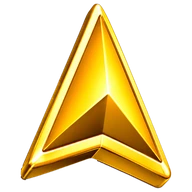
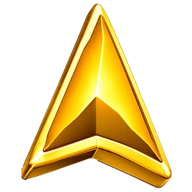
Nav arrow: symmetric wings and centered ridge
Claude-Session: https://claude.ai/code/session_01QqaFd74dCabiCok1GW4n4v

diff --git a/static/sw.js b/static/sw.js
@@ -1,7 +1,7 @@
 // Такси ТАП! — service worker: тиркеме катары орнотуу жана интернет жок болсо жөнөкөй бет.
 // API'лер жана карта кэштелбейт — абал ар дайым жаңы болушу керек.
-const SHELL = "taxitap-v248";
-const PAGES = ["/", "/driver", "/static/area.js?v=20", "/static/voice.js?v=10", "/static/night.js?v=2", "/static/dark.css?v=21", "/static/manifest.json", "/static/manifest-driver.json?v=1", "/static/icon-192.png", "/static/icon-d-192.png?v=1", "/static/logo.png", "/static/nav_arrow.webp?v=2", "/static/n_home.webp?v=24", "/static/n_trips.webp?v=24", "/static/n_go.webp?v=24", "/static/n_go_on.webp?v=1", "/static/n_help.webp?v=24", "/static/n_cab.webp?v=24", "/static/n_earn.webp?v=24", "/static/r_bag.webp?v=24", "/static/r_car.webp?v=24", "/static/cb_tl.webp?v=24", "/static/cb_tr.webp?v=24", "/static/qr.js", "/static/qrshare.js", "/static/c_car.webp?v=24",
+const SHELL = "taxitap-v249";
+const PAGES = ["/", "/driver", "/static/area.js?v=21", "/static/voice.js?v=10", "/static/night.js?v=2", "/static/dark.css?v=21", "/static/manifest.json", "/static/manifest-driver.json?v=1", "/static/icon-192.png", "/static/icon-d-192.png?v=1", "/static/logo.png", "/static/nav_arrow.webp?v=3", "/static/n_home.webp?v=24", "/static/n_trips.webp?v=24", "/static/n_go.webp?v=24", "/static/n_go_on.webp?v=1", "/static/n_help.webp?v=24", "/static/n_cab.webp?v=24", "/static/n_earn.webp?v=24", "/static/r_bag.webp?v=24", "/static/r_car.webp?v=24", "/static/cb_tl.webp?v=24", "/static/cb_tr.webp?v=24", "/static/qr.js", "/static/qrshare.js", "/static/c_car.webp?v=24",
   "/static/h_taxi.webp?v=24", "/static/h_box.webp?v=24", "/static/h_girl.webp?v=25", "/static/h_map.webp?v=25"];
 self.addEventListener("install", e => e.waitUntil(caches.open(SHELL).then(c => c.addAll(PAGES)).then(() => self.skipWaiting())));
 self.addEventListener("activate", e => e.waitUntil(

diff --git a/static/area.js b/static/area.js
@@ -238,7 +238,7 @@ function bindLinks() {
 window.NAV = (function () {
   let compFn = null, compAng = 0, onFix = null, single = false, showComp = false;
   let map = null, marker = null, pos = null, head = null, gpsHead = null, wrap = null, onLocate = null, watching = false, oriOn = false;
-  const ARROW = `<img src="/static/nav_arrow.webp?v=2" width="54" height="54" alt="" draggable="false" style="display:block;pointer-events:none">`;
+  const ARROW = `<img src="/static/nav_arrow.webp?v=3" width="54" height="54" alt="" draggable="false" style="display:block;pointer-events:none">`;
   const LOC = `<svg viewBox="0 0 24 24" width="24" height="24"><path d="M21.5 2.5 L2.8 10.3 L11 12.9 L13.7 21.2 Z" fill="#16161a" stroke="#16161a" stroke-width="1.2" stroke-linejoin="round"/></svg>`;
   const COMP = `<svg viewBox="0 0 40 40" width="34" height="34"><path d="M20 4 L26 20 L14 20 Z" fill="#ff3b30"/><path d="M20 36 L26 20 L14 20 Z" fill="#c9c9cf"/><circle cx="20" cy="20" r="2.6" fill="#fff"/></svg>`;
   function icon() { return L.divIcon({className:"", html:`<div class="navme"><i></i><b class="navarr">${ARROW}</b></div>`, iconSize:[52,52], iconAnchor:[26,26]}); }

diff --git a/static/rider.html b/static/rider.html
@@ -134,7 +134,7 @@ html.uidark .tcard{background:#1f2026;border-color:#2b2c33}html.uidark .tmap{bac
 <nav id="bnav" class="bnav pro" data-l="Жүргүнчү" data-r="режиминдесиз"><a data-k="home" class="on"><img src="/static/n_home.webp?v=24" alt="">Башкы бет</a><a data-k="trips"><img src="/static/n_trips.webp?v=24" alt="">Сапарлар</a><a data-k="go" class="big"><img src="/static/n_go.webp?v=24" alt="">Чакыруу</a><a data-k="help"><img src="/static/n_help.webp?v=24" alt="">Жардам</a><a data-k="cab"><img src="/static/n_cab.webp?v=24" alt="">Кабинет</a></nav>
 
 <script src="https://unpkg.com/leaflet@1.9.4/dist/leaflet.js"></script>
-<script src="/static/area.js?v=20"></script>
+<script src="/static/area.js?v=21"></script>
 <script src="/static/voice.js?v=10"></script>
 <script>
 const $ = s => document.querySelector(s);

diff --git a/static/driver.html b/static/driver.html
@@ -136,7 +136,7 @@ label.l{font-size:13px;color:var(--soft);display:block;margin:6px 0 4px}
 <div class="offer hide" id="ovl"><div class="ocard" id="ovlc"></div></div>
 
 <script src="https://unpkg.com/leaflet@1.9.4/dist/leaflet.js"></script>
-<script src="/static/area.js?v=20"></script>
+<script src="/static/area.js?v=21"></script>
 <script src="/static/voice.js?v=10"></script>
 <script src="/static/qr.js"></script>
 <script src="/static/qrshare.js"></script>

diff --git a/static/admin.html b/static/admin.html
@@ -103,7 +103,7 @@ td input.f{padding:7px 8px;max-width:90px;min-width:58px}
 <main id="main"></main>
 
 <script src="https://unpkg.com/leaflet@1.9.4/dist/leaflet.js"></script>
-<script src="/static/area.js?v=20"></script>
+<script src="/static/area.js?v=21"></script>
 <script>
 function shareTxt(p) {
   if (!p.share_until) return p.share + "%";
